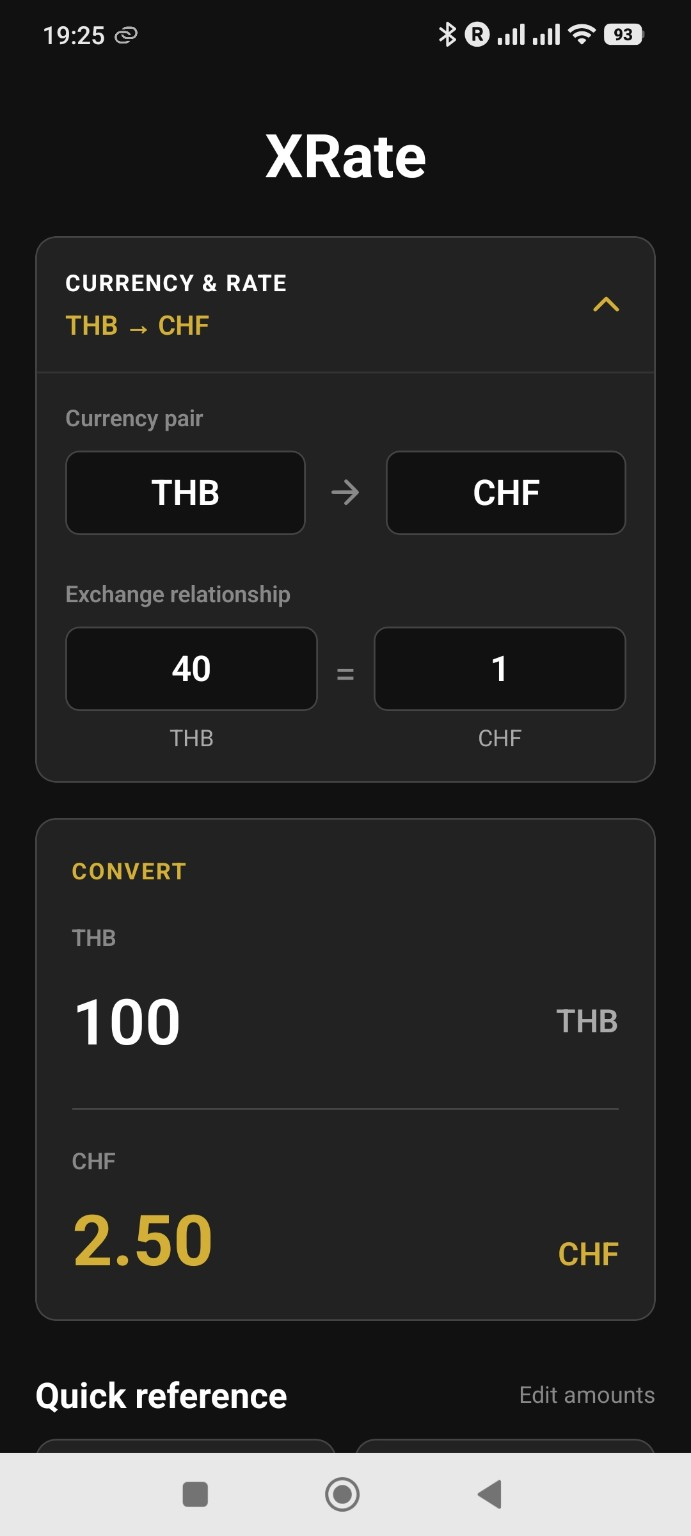
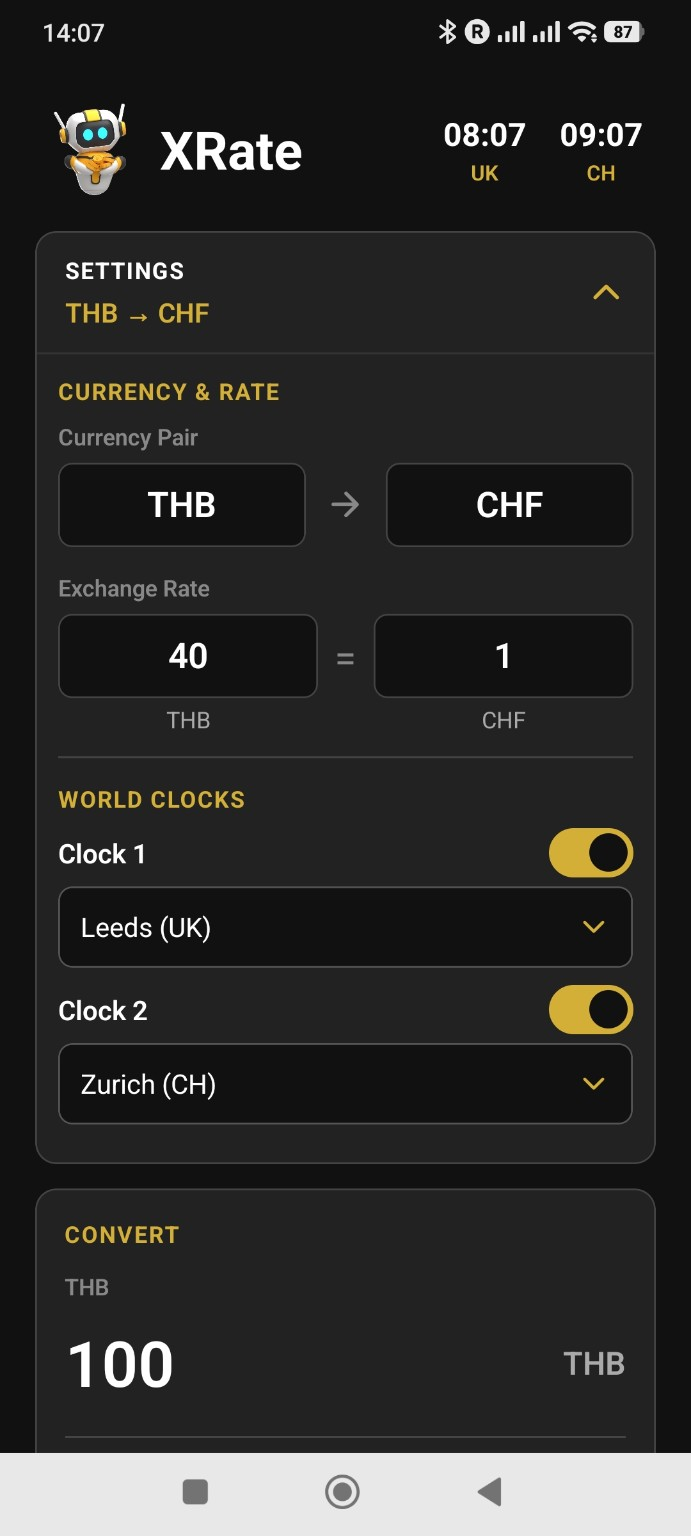
Updated XRate

diff --git a/index.html b/index.html
@@ -652,6 +652,13 @@
                     </p>
 
                     <p>
+                        XRate also includes two optional world clocks, displayed
+                        in the top-right corner of the app. Handy when travelling,
+                        keeping in touch with people back home or simply checking
+                        the time in another part of the world.
+                    </p>
+
+                    <p>
                         No accounts, no unnecessary complexity. Just a practical
                         little tool that does what you need, when you need it.
                     </p>
@@ -670,7 +677,7 @@
                     <div class="app-downloads">
 
                         <a
-                            href="https://github.com/Odins-Beard/highground-studios/releases/download/xray-v0.1/XRay-v0.1.apk"
+                            href="https://github.com/Odins-Beard/highground-studios/releases/download/xrate-v0.2/XRate-v0.2.apk"
                             class="download-button"
                         >
                             DOWNLOAD FOR ANDROID
